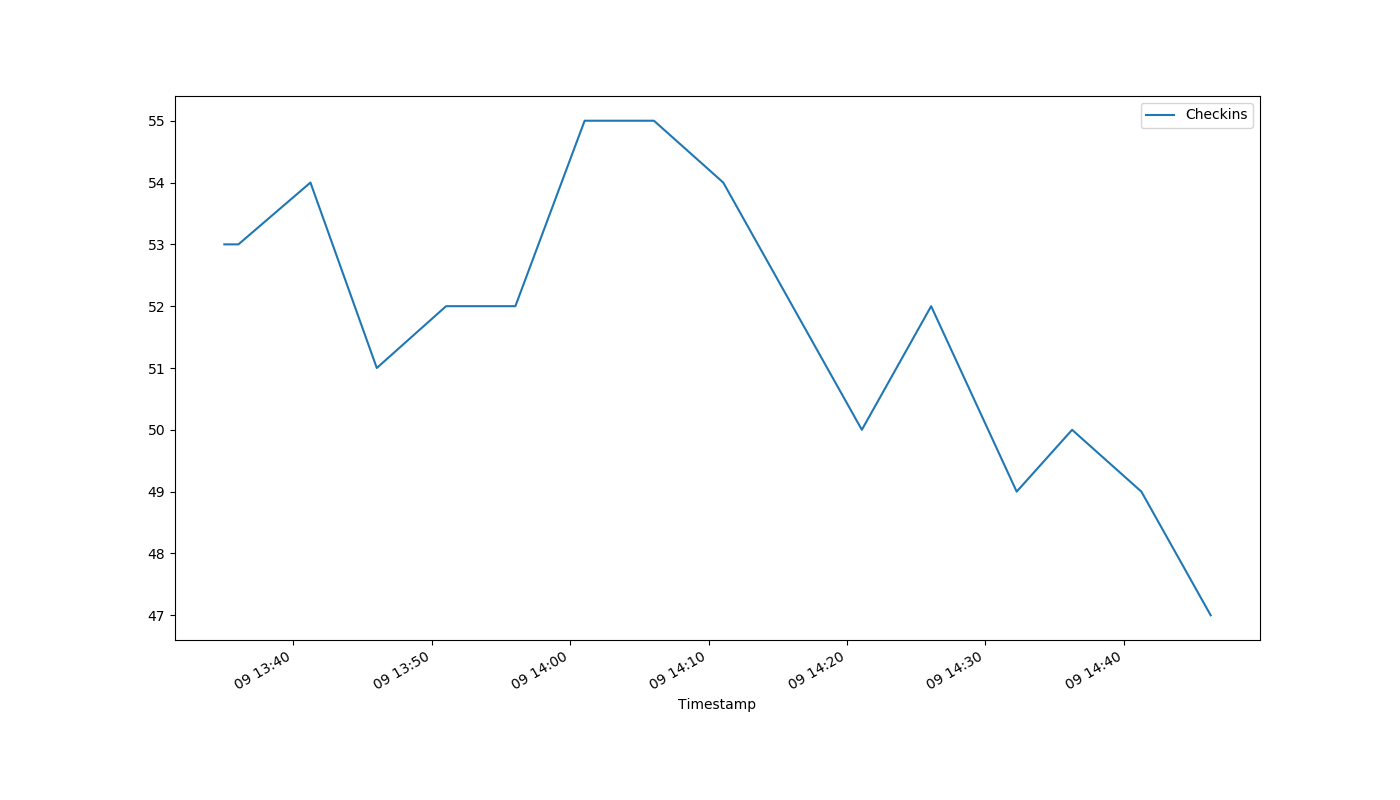
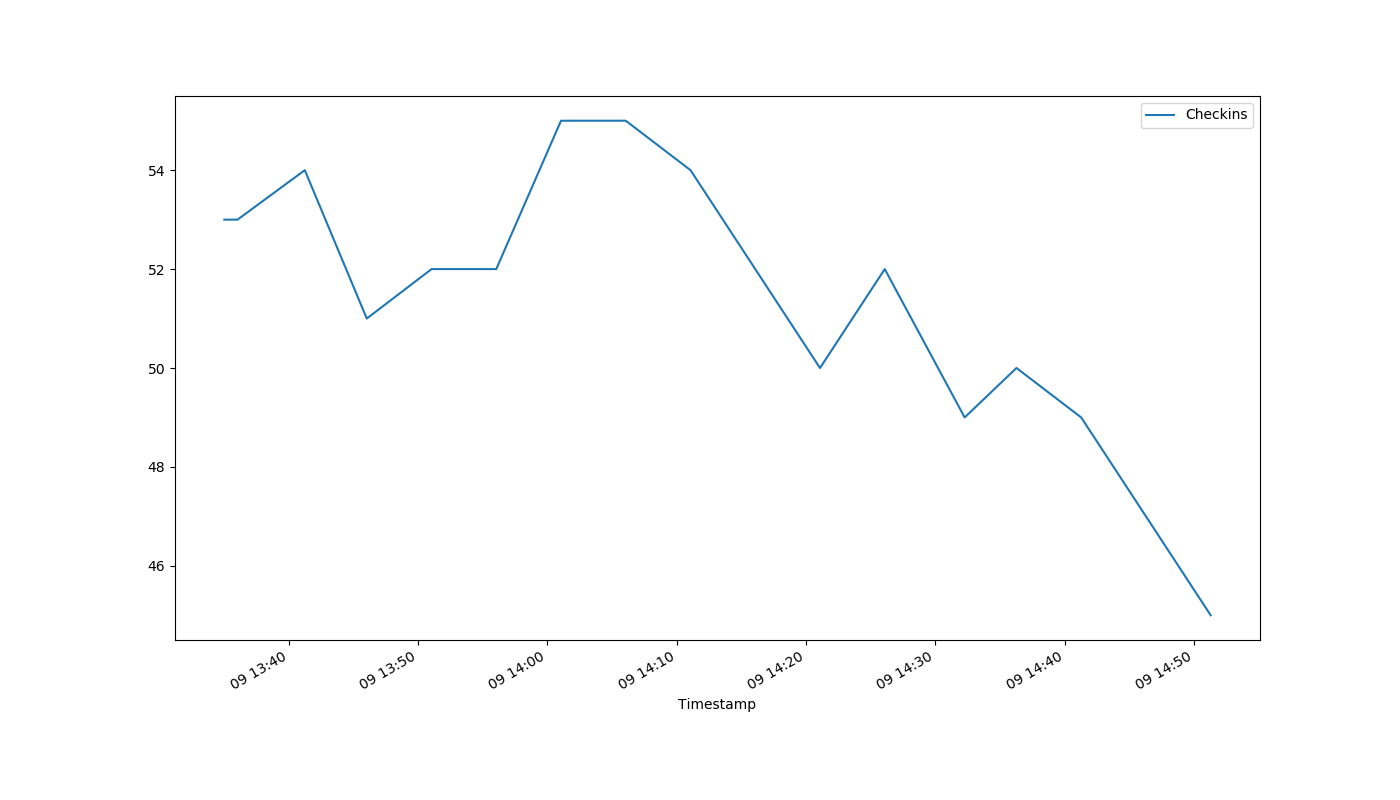
auto-Aug-09-14:52:54

diff --git a/index.html b/index.html
@@ -1,1 +1,1 @@
-<!DOCTYPE html><html><head><meta http-equiv="refresh" content="30"><link rel='stylesheet' href='holmcurrent.css'></head><body><p id='count'>47</p><div id='graph-wrap'><img id='graph' src='holmgraph-Aug-09.png'></div><p id='updated'>Last updated 14:47:12 / 14:46:16</p></body></html>
+<!DOCTYPE html><html><head><meta http-equiv="refresh" content="30"><link rel='stylesheet' href='holmcurrent.css'></head><body><p id='count'>45</p><div id='graph-wrap'><img id='graph' src='holmgraph-Aug-09.png'></div><p id='updated'>Last updated 14:52:13 / 14:51:16</p></body></html>
